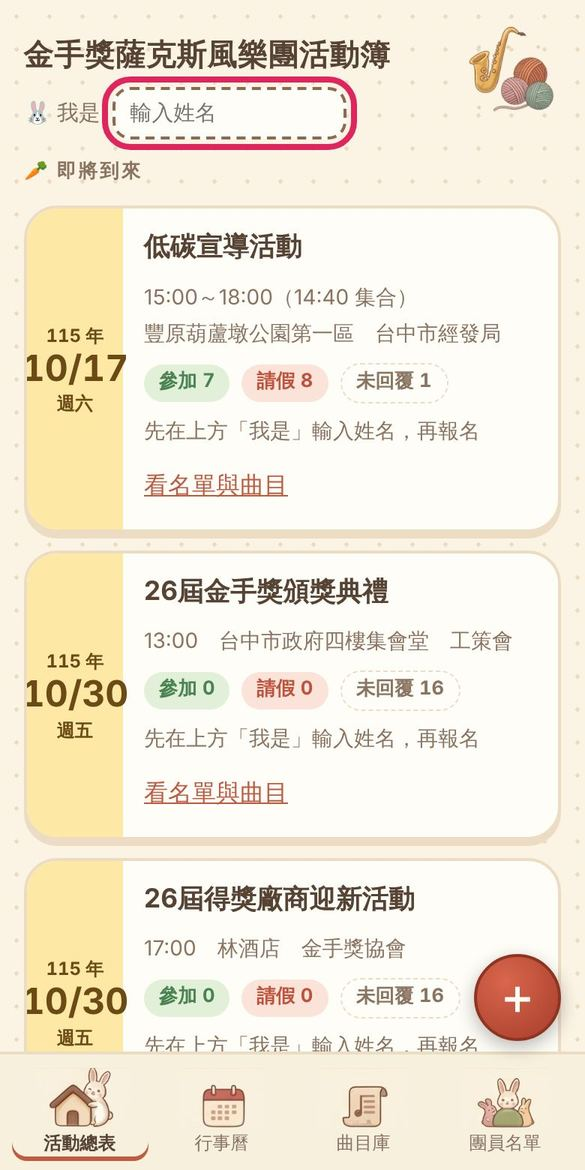
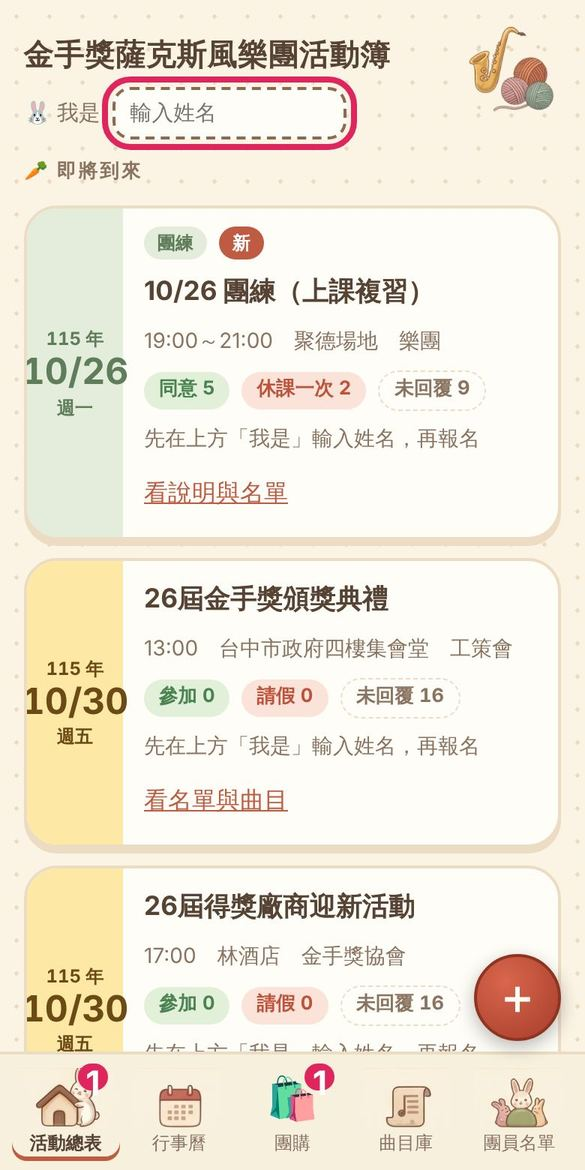
Update the guide for practice polls and group buys
Claude-Session: https://claude.ai/code/session_01WHQuuFNd7bt9XXirgcJsGD

diff --git a/guide.html b/guide.html
@@ -34,39 +34,46 @@ ol{list-style:none;margin:0;padding:0;display:flex;flex-direction:column;gap:16p
   <h1>金手獎薩克斯風樂團活動簿　使用說明</h1>
   <p class="lead">用手機或電腦打開網址就能用，不用下載、不用登入。圖中紅框是要按的地方；圖裡的姓名是示範用的假名。</p>
   <p><a href="./">開啟活動簿</a></p>
-  <nav class="toc" aria-label="目錄"><a href="#member">團員：報名參加或請假</a><a href="#leader">團長：新增與管理活動</a><a href="#tips">小提醒</a></nav>
-
+  <nav class="toc" aria-label="目錄"><a href="#member">團員：報名與回覆</a><a href="#buy">團購：登記與發起</a><a href="#leader">團長：新增與管理活動</a><a href="#tips">小提醒</a></nav>
   <h2 id="member">團員篇</h2>
   <ol>
 <li class="step"><div class="tx"><span class="no">1</span><h3>輸入自己的名字</h3><p>第一次使用時，在最上面「我是」的框框輸入名字。打出姓氏就會跳出名單，點選自己的名字即可。只要做一次，之後會自動記住。</p></div><img src="guide/m1.jpg" alt="輸入自己的名字的畫面" loading="lazy" width="585" height="1170"></li>
-<li class="step"><div class="tx"><span class="no">2</span><h3>每場活動會出現「參加」和「請假」</h3><p>選好名字後，每一場活動下面都會出現這兩個按鈕。</p></div><img src="guide/m2.jpg" alt="每場活動會出現「參加」和「請假」的畫面" loading="lazy" width="585" height="1170"></li>
-<li class="step"><div class="tx"><span class="no">3</span><h3>按「參加」或「請假」就完成報名</h3><p>按下去按鈕會變色，上面的人數也會跟著變。按錯了再按一次同一個按鈕就取消，或直接改按另一個。</p></div><img src="guide/m3.jpg" alt="按「參加」或「請假」就完成報名的畫面" loading="lazy" width="585" height="1170"></li>
-<li class="step"><div class="tx"><span class="no">4</span><h3>想看詳細內容，按「看名單與曲目」</h3><p>也可以直接點活動名稱。</p></div><img src="guide/m4.jpg" alt="想看詳細內容，按「看名單與曲目」的畫面" loading="lazy" width="585" height="1170"></li>
-<li class="step"><div class="tx"><span class="no">5</span><h3>活動詳細內容</h3><p>可以看到邀請單位、時間、集合時間、地點、攜伴、服裝、備註和曲目。左上角「回到上一頁」可以返回。</p></div><img src="guide/m5.jpg" alt="活動詳細內容的畫面" loading="lazy" width="585" height="1170"></li>
-<li class="step"><div class="tx"><span class="no">6</span><h3>名單與攜伴人數</h3><p>往下滑會看到參加、請假、未回覆三份名單。可以攜伴的場次，按了參加之後會出現「我的攜伴人數」可以選。也可以幫其他團員代為登記。</p></div><img src="guide/m6.jpg" alt="名單與攜伴人數的畫面" loading="lazy" width="585" height="1170"></li>
-<li class="step"><div class="tx"><span class="no">7</span><h3>開放獨奏／重奏的場次</h3><p>如果這場有開放，節目表下方會出現輸入框。填上表演者和曲目，按「新增我的曲目」就會排進節目表。</p></div><img src="guide/m7.jpg" alt="開放獨奏／重奏的場次的畫面" loading="lazy" width="585" height="1170"></li>
-<li class="step"><div class="tx"><span class="no">8</span><h3>行事曆</h3><p>按下方的「行事曆」，用月曆看哪天有演出。週末和國定假日是紅字。點「演出」可以看那一場的內容。</p></div><img src="guide/m8.jpg" alt="行事曆的畫面" loading="lazy" width="585" height="1170"></li>
-<li class="step"><div class="tx"><span class="no">9</span><h3>曲目庫</h3><p>按下方的「曲目庫」，可以看樂團演過哪些曲子、演過幾次、最近一次是哪天。</p></div><img src="guide/m9.jpg" alt="曲目庫的畫面" loading="lazy" width="585" height="1170"></li>
+<li class="step"><div class="tx"><span class="no">2</span><h3>按「參加」或「請假」</h3><p>每場活動下面按「參加」或「請假」就完成報名。按錯了再按一次同一個按鈕就取消，或直接改按另一個。</p></div><img src="guide/m3.jpg" alt="按「參加」或「請假」的畫面" loading="lazy" width="585" height="1170"></li>
+<li class="step"><div class="tx"><span class="no">3</span><h3>看活動的詳細內容</h3><p>按「看名單與曲目」，可以看到集合時間、地點、服裝、曲目和大家的報名狀況。可攜伴的場次，按參加後可以選攜伴人數；也可以幫其他團員代為登記。</p></div><img src="guide/m5.jpg" alt="看活動的詳細內容的畫面" loading="lazy" width="585" height="1170"></li>
+<li class="step"><div class="tx"><span class="no">4</span><h3>團練或詢問：按自己的選擇</h3><p>綠色標籤的是團練或詢問，按鈕會是團長設定的選項，例如「同意」「休課一次」。按一個就完成，改主意直接按另一個。</p></div><img src="guide/p2.jpg" alt="團練或詢問：按自己的選擇的畫面" loading="lazy" width="585" height="1170"></li>
+<li class="step"><div class="tx"><span class="no">5</span><h3>看大家的回覆</h3><p>按「看說明與名單」，可以看到完整說明，以及每個選項有誰、還有誰沒回覆。</p></div><img src="guide/p3.jpg" alt="看大家的回覆的畫面" loading="lazy" width="585" height="1170"></li>
+<li class="step"><div class="tx"><span class="no">6</span><h3>行事曆</h3><p>按下方「行事曆」，用月曆看哪天有演出（黃色）、團練（綠色）或團購截止（藍色）。週末和國定假日是紅字。點標記可以直接打開。</p></div><img src="guide/m8.jpg" alt="行事曆的畫面" loading="lazy" width="585" height="1170"></li>
   </ol>
-
+  <h2 id="buy">團購篇</h2>
+  <ol>
+<li class="step"><div class="tx"><span class="no">1</span><h3>打開團購</h3><p>按下方的「團購」，會列出目前所有團購。有紅色數字代表有新的團購。</p></div><img src="guide/b1.jpg" alt="打開團購的畫面" loading="lazy" width="585" height="1170"></li>
+<li class="step"><div class="tx"><span class="no">2</span><h3>看照片和說明</h3><p>點品名或「看照片與登記」進去。照片可以左右滑動看更多張，下面有價格、截止日和說明。</p></div><img src="guide/b2.jpg" alt="看照片和說明的畫面" loading="lazy" width="585" height="1170"></li>
+<li class="step"><div class="tx"><span class="no">3</span><h3>選規格和數量，按「加入登記」</h3><p>衣服這類有規格的，先點選版型、尺寸，再按 ＋ − 調數量，最後按「加入登記」。水果這類沒有規格的，直接選數量。</p></div><img src="guide/b3.jpg" alt="選規格和數量，按「加入登記」的畫面" loading="lazy" width="585" height="1170"></li>
+<li class="step"><div class="tx"><span class="no">4</span><h3>看自己登記了什麼</h3><p>「我登記的」會列出你登記的每一筆和小計。要取消就按該筆旁邊的「刪除」。同一個團購可以登記多筆，例如男版、女版各一件。</p></div><img src="guide/b4.jpg" alt="看自己登記了什麼的畫面" loading="lazy" width="585" height="1170"></li>
+<li class="step"><div class="tx"><span class="no">5</span><h3>統計</h3><p>每個規格各幾件、合計多少錢、每個人登記了什麼，大家都看得到。按「複製統計文字」可以貼到 LINE 或傳給廠商。</p></div><img src="guide/b5.jpg" alt="統計的畫面" loading="lazy" width="585" height="1170"></li>
+<li class="step"><div class="tx"><span class="no">6</span><h3>發起團購（每個團員都可以）</h3><p>在團購頁按右上角「＋ 發起團購」。發起人就是上方「我是」的名字。</p></div><img src="guide/b6.jpg" alt="發起團購（每個團員都可以）的畫面" loading="lazy" width="585" height="1170"></li>
+<li class="step"><div class="tx"><span class="no">7</span><h3>填資料、上傳照片</h3><p>填品名、單價、單位、截止日、說明。照片可以一次選多張，手機也可以直接拍。有規格就寫在「規格」欄，例如「尺寸：S、M、L」；水果不用填。要記錄付款的話打勾。最後按「發起」。</p></div><img src="guide/b7.jpg" alt="填資料、上傳照片的畫面" loading="lazy" width="585" height="1170"></li>
+<li class="step"><div class="tx"><span class="no">8</span><h3>管理自己發起的團購</h3><p>只有發起人和團長看得到「編輯、截止登記、刪除」。截止後大家就不能再登記；刪除要再按一次確認，會連同登記和照片一起刪掉。</p></div><img src="guide/b8.jpg" alt="管理自己發起的團購的畫面" loading="lazy" width="585" height="1170"></li>
+<li class="step"><div class="tx"><span class="no">9</span><h3>記錄誰已付款</h3><p>發起時有勾「要記錄付款」的，統計表會多一欄「已付款」，發起人和團長可以打勾。</p></div><img src="guide/b9.jpg" alt="記錄誰已付款的畫面" loading="lazy" width="585" height="1170"></li>
+  </ol>
   <h2 id="leader">團長篇</h2>
   <p class="lead">以下功能需要管理密碼，密碼請向管理者索取。</p>
   <ol>
-<li class="step"><div class="tx"><span class="no">1</span><h3>按右下角紅色的「＋」</h3><p>這是新增活動的按鈕，在每個畫面的右下角。</p></div><img src="guide/l1.jpg" alt="按右下角紅色的「＋」的畫面" loading="lazy" width="585" height="1170"></li>
+<li class="step"><div class="tx"><span class="no">1</span><h3>按右下角紅色的「＋」</h3><p>這是新增活動的按鈕，在活動總表、行事曆等畫面的右下角。</p></div><img src="guide/l1.jpg" alt="按右下角紅色的「＋」的畫面" loading="lazy" width="585" height="1170"></li>
 <li class="step"><div class="tx"><span class="no">2</span><h3>輸入管理密碼</h3><p>新增、編輯、刪除活動都需要密碼。輸入一次之後，在關掉網頁之前不用再輸入。</p></div><img src="guide/l2.jpg" alt="輸入管理密碼的畫面" loading="lazy" width="585" height="1170"></li>
-<li class="step"><div class="tx"><span class="no">3</span><h3>填寫活動資料</h3><p>活動內容和日期一定要填，其他欄位有資料再填。集合時間可以自由輸入，例如「14:40」或「16:30-17:00」。</p></div><img src="guide/l3.jpg" alt="填寫活動資料的畫面" loading="lazy" width="585" height="1170"></li>
-<li class="step"><div class="tx"><span class="no">4</span><h3>加入曲目、設定是否開放獨奏</h3><p>曲目一首一首輸入後按「加入曲目」，演過的曲子會自動提示。用 ↑ ↓ 調整順序、✕ 刪除，編號會自動重排。要讓團員自己報獨奏或重奏，把上面的選項改成「開放」。</p></div><img src="guide/l4.jpg" alt="加入曲目、設定是否開放獨奏的畫面" loading="lazy" width="585" height="1170"></li>
-<li class="step"><div class="tx"><span class="no">5</span><h3>按「儲存」</h3><p>儲存後活動就會出現在總表和行事曆，團員可以開始報名。</p></div><img src="guide/l5.jpg" alt="按「儲存」的畫面" loading="lazy" width="585" height="1170"></li>
-<li class="step"><div class="tx"><span class="no">6</span><h3>修改或刪除活動</h3><p>進入活動的詳細內容，按「編輯活動」可以修改，按「刪除」後還要再按一次確認才會刪掉。</p></div><img src="guide/l6.jpg" alt="修改或刪除活動的畫面" loading="lazy" width="585" height="1170"></li>
-<li class="step"><div class="tx"><span class="no">7</span><h3>複製接龍文字</h3><p>按「複製接龍文字」會產生和以前一樣格式的文字，包含目前的參加和請假名單，可以直接貼到 LINE 群組。</p></div><img src="guide/l7.jpg" alt="複製接龍文字的畫面" loading="lazy" width="585" height="1170"></li>
-<li class="step"><div class="tx"><span class="no">8</span><h3>管理團員名單</h3><p>按下方的「團員名單」。輸入姓名按「加入團員」可新增；按「移除」後再按一次確認可移除。</p></div><img src="guide/l8.jpg" alt="管理團員名單的畫面" loading="lazy" width="585" height="1170"></li>
+<li class="step"><div class="tx"><span class="no">3</span><h3>貼上公告，自動填入</h3><p>把 LINE 上的活動公告整段貼到黃色框，按「自動填入」，下面的欄位會自動填好。不是接龍格式的詢問也可以貼，會把全文放進備註並猜日期和選項。一定要檢查過再儲存。</p></div><img src="guide/lp.jpg" alt="貼上公告，自動填入的畫面" loading="lazy" width="585" height="1170"></li>
+<li class="step"><div class="tx"><span class="no">4</span><h3>選類型、設定回覆選項</h3><p>類型有演出、團練、詢問、其他邀請。「回覆選項」就是團員會看到的按鈕，例如團練詢問可以改成「同意、休課一次」。演出維持「參加、請假」。</p></div><img src="guide/lk2.jpg" alt="選類型、設定回覆選項的畫面" loading="lazy" width="585" height="1170"></li>
+<li class="step"><div class="tx"><span class="no">5</span><h3>加入曲目、設定是否開放獨奏</h3><p>曲目一首一首輸入後按「加入曲目」，演過的曲子會自動提示。用 ↑ ↓ 調整順序、✕ 刪除。要讓團員自己報獨奏或重奏，把選項改成「開放」。</p></div><img src="guide/l4.jpg" alt="加入曲目、設定是否開放獨奏的畫面" loading="lazy" width="585" height="1170"></li>
+<li class="step"><div class="tx"><span class="no">6</span><h3>按「儲存」</h3><p>儲存後活動就會出現在總表和行事曆，團員手機上會出現紅色的未讀數字。</p></div><img src="guide/l5.jpg" alt="按「儲存」的畫面" loading="lazy" width="585" height="1170"></li>
+<li class="step"><div class="tx"><span class="no">7</span><h3>修改、刪除、複製接龍文字</h3><p>進入活動後，可以「編輯活動」、「刪除」（要再按一次確認），或「複製接龍文字」貼到 LINE 群組。</p></div><img src="guide/l6.jpg" alt="修改、刪除、複製接龍文字的畫面" loading="lazy" width="585" height="1170"></li>
+<li class="step"><div class="tx"><span class="no">8</span><h3>管理團員名單</h3><p>按下方「團員名單」。輸入姓名按「加入團員」可新增；按「移除」後再按一次確認可移除。</p></div><img src="guide/l8.jpg" alt="管理團員名單的畫面" loading="lazy" width="585" height="1170"></li>
   </ol>
-
   <h2 id="tips">小提醒</h2>
   <div class="tip">
     <ul>
       <li>第一次打開要等大約 10 秒才會出現活動，請稍候。</li>
-      <li>按下參加或請假後自己的畫面會馬上變，其他人大約半分鐘後才看得到。</li>
+      <li>下方「活動總表」「團購」出現紅色數字，代表有還沒看過的新活動或新團購；點開看過就會消失。</li>
+      <li>按下參加、請假或登記後，自己的畫面會馬上變，其他人大約半分鐘後才看得到。</li>
       <li>iPhone 用 Safari 打開活動簿，按「分享」再按「加入主畫面」，就會像 App 一樣有圖示。</li>
       <li>畫面顯示「沒有存成功」時，請檢查網路後再按一次。</li>
     </ul>
